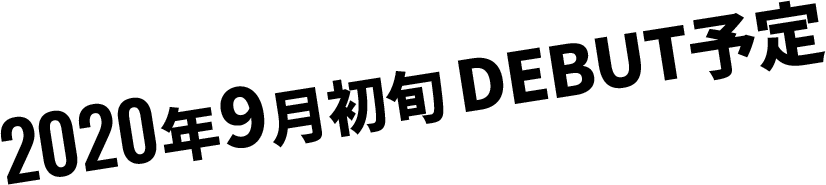
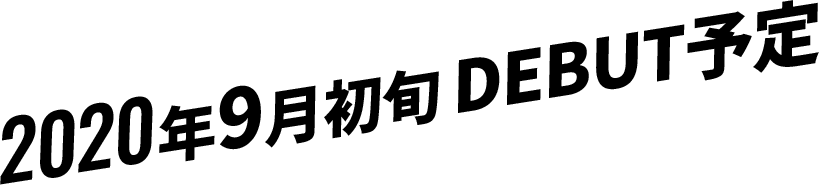
追加修正2

diff --git a/src/sass/module/_firstview.scss b/src/sass/module/_firstview.scss
@@ -1,40 +1,6 @@
-/*
-動きは全体的にがさつ
-
-animation 背景支店切り替え
-カクカクした動き
-opacity だけスムーズに、、、したいないぁ
-
-scroll first だけアニメーション
-
-背景
-黒　透過png(fix)　＞　グレー 黒　透過png　＞　木.jpg(fix)
-グレーを斜めから動かす
-黒でマッピング
-
-
-// その他
-グレー画像は透けてるのにしない、黒とグレーで固定
-
-長めに作って、動かすだけ。
-マスクなし
-
-
-/_/ 動き
-
-1. blockand section :: opacity -> 1  
-1. before要素 :: ガタガタ斜めに合わせて移動
-2.inner:: 中身fadein＋上
-画像もついでspeckだけは
-他はいらない
-
----*/
-
-
 // first view
 // animation 部分
 .is-lpyaris_fadeIn {
-
     .p-lpyaris__mvCar {
         animation: fv_car .7s $easeAni2 0s;
         animation-fill-mode: forwards;
@@ -108,7 +74,7 @@ scroll first だけアニメーション
         // height: 700px;
         padding: 0;
         padding-top: 50px;
-        padding-bottom: 247px;
+        padding-bottom: 280px;
     }
     .p-lpyaris__inner {
         padding: 0;
@@ -172,9 +138,9 @@ scroll first だけアニメーション
         @include setValue(left, 10, "sp");
         @include setValue(top, 38, "sp");
         @include pc-layout {
-            width: 776px;
+            width: 823px;
             top: 5%;
-            left: 5%;
+            left: 3.5%;
         }
     }
     &Car {
@@ -182,13 +148,13 @@ scroll first だけアニメーション
         position: absolute;
         @include setWidth(310, "sp");
         @include setValue(right, -5, "sp");
-        @include setValue(bottom, -135, "sp");
+        @include setValue(bottom, -120, "sp");
         opacity: 0;
         @include pc-layout {
             // width: (1244px / 2);
             width: 680px;
-            right: -5%;
-            bottom: -60%;
+            right: -1%;
+            bottom: -53.5%;
         }
         img {
             position: relative;
@@ -216,7 +182,7 @@ scroll first だけアニメーション
         background-size: contain;
         // TODO 計算
         position: absolute;
-        @include setValue(top, 140, "sp");
+        @include setValue(top, 130, "sp");
         @include setValue(left, -10, "sp");
         @include setValue(height, 87, "sp");
         @include setWidth(351, "sp");
@@ -226,15 +192,14 @@ scroll first だけアニメーション
             left: -8%;
             top: 50%;
         }
-
         img {
             display: block;
-            width: (826 / 1275 * 100%);
+            width: (819 / 1275 * 100%);
             height: auto;
             -webkit-backface-visibility: hidden;
             position: absolute;
             top: 48%;
-            left: 50%;
+            left: 51%;
             transform: translate(-50%,-50%);
         }
     }

diff --git a/src/js/script.js b/src/js/script.js
@@ -2,7 +2,6 @@ import "../sass/style.scss";
 
 import imageLoad from './modules/imageLoad';
 import scrollFadeIn from './modules/scrollfadein.js';
-
 const PATH_IMG = "/lp/yariscross/assets/img/";
 var pre = window.devicePixelRatio >= 2 ? ((window.innerWidth || document.documentElement.clientWidth || 0) < 835 ? "_sp" : "@2x") : "";
 new imageLoad({

diff --git a/src/sass/_variable.scss b/src/sass/_variable.scss
@@ -35,4 +35,4 @@ $fontN: 18;
 $borderHeight: 340px;
 
 $easeAni: cubic-bezier(0.55, 0.085, 0.68, 0.53);// easeInQuad 最初遅く- > 早く // 背景用
-$easeAni2:  cubic-bezier(0.165, 0.84, 0.44, 1); // easeOutQuart 
+$easeAni2:  cubic-bezier(0.165, 0.84, 0.44, 1); // easeOutQuart

diff --git a/src/sass/module/_comparison.scss b/src/sass/module/_comparison.scss
@@ -2,8 +2,6 @@
 // 徹底比較
 .p-lpyaris__com {
     @include setValue(padding-top, 130);
-    // バナー追加したら削除
-    padding-bottom: 1px;
     @include pc-layout {
         padding-top: ($borderHeight / 1.3);
     }

diff --git a/src/sass/_layout.scss b/src/sass/_layout.scss
@@ -47,7 +47,7 @@
         padding-left: 1em;
         @include pc-layout {
             text-align: center;
-            font-size: 14px;
+            font-size: 15.4px;
         }
     }
     &__title {
